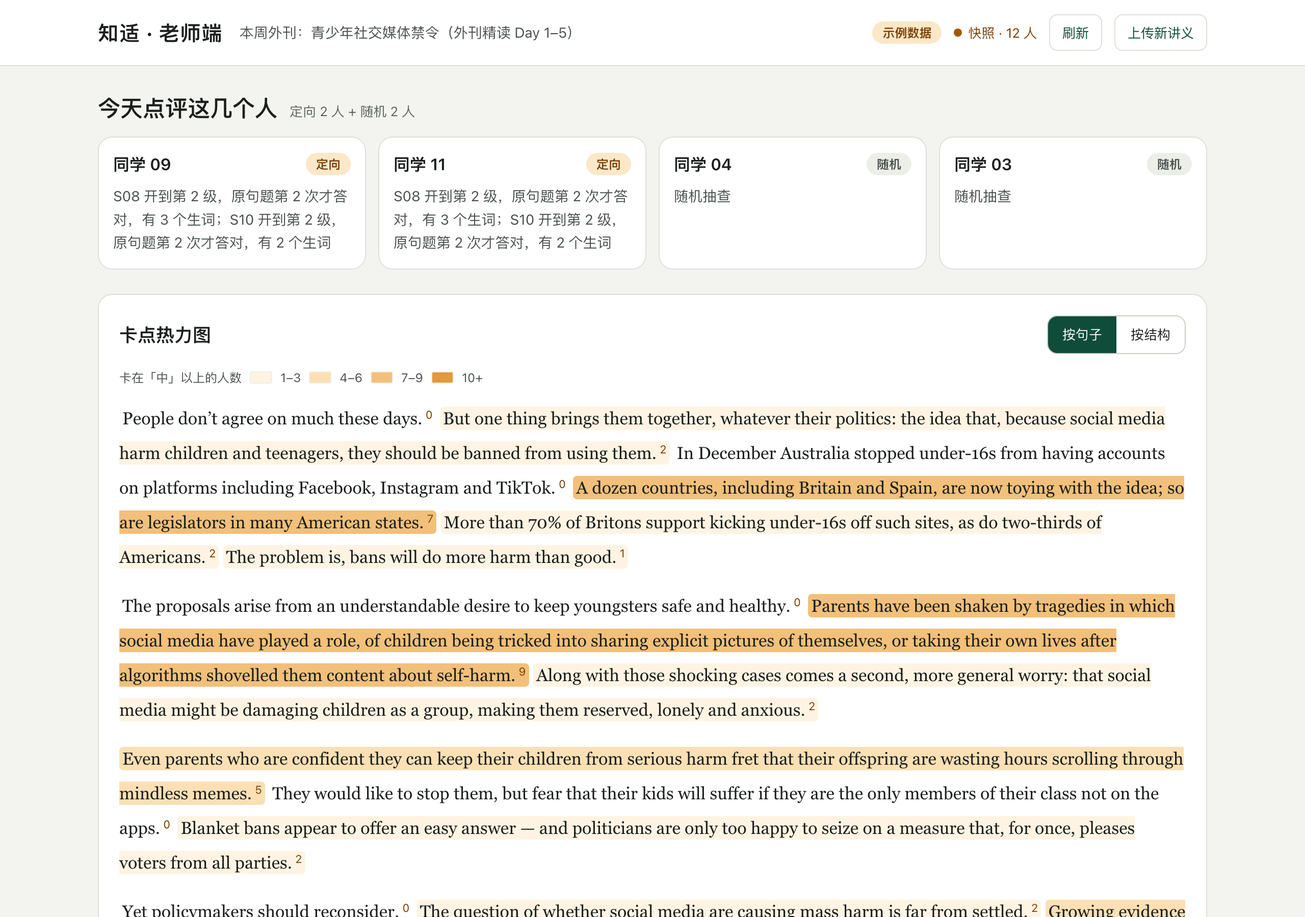
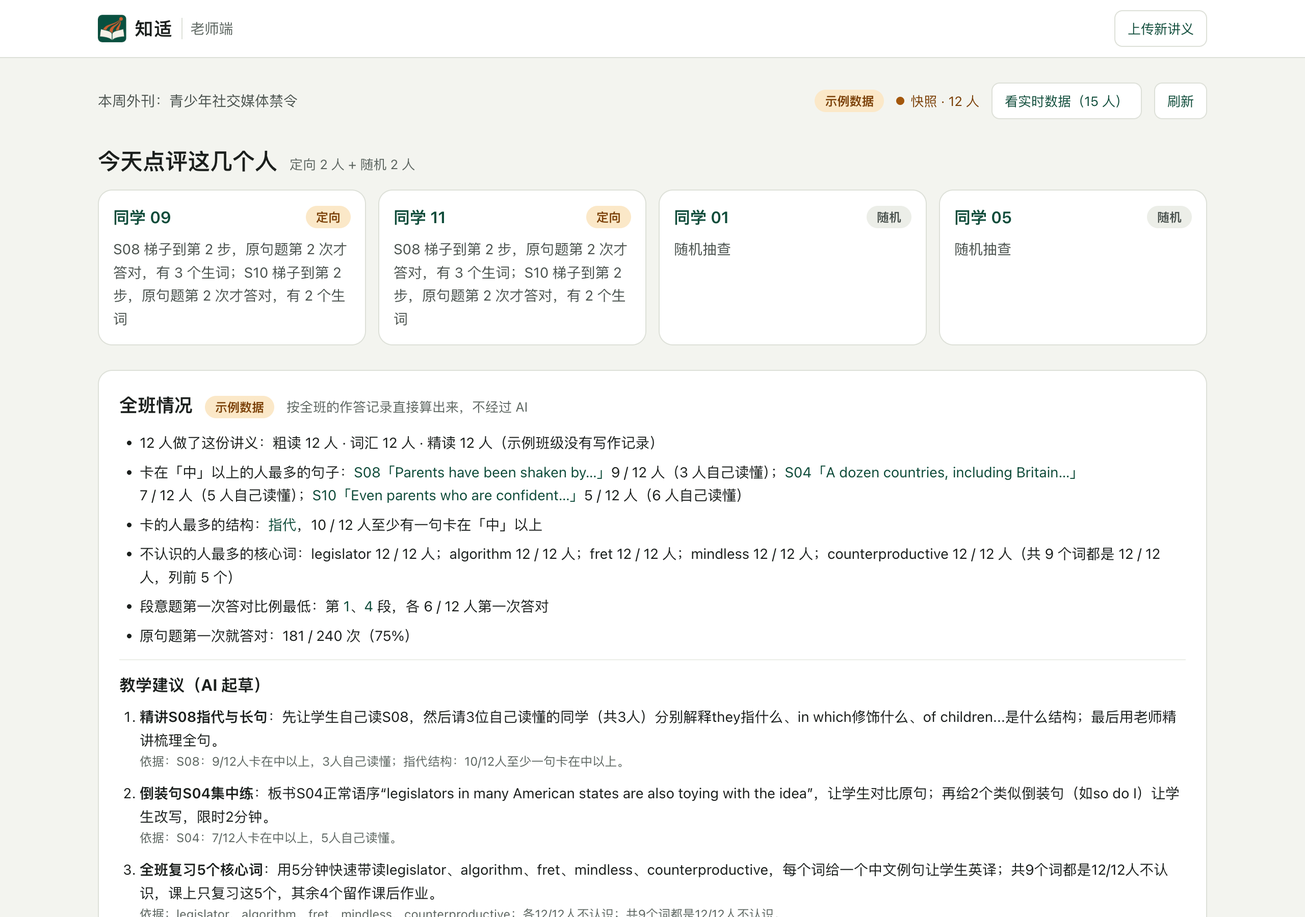
Teacher screens retaken on production (05 first screen, 05b class summary with real AI advice, 05c/05d heatmap by sentence/structure); PPT review corrected for the advice feature; Beijing times fixed in logs

diff --git a/MEMORY_LOG.md b/MEMORY_LOG.md
@@ -32,25 +32,32 @@
 
 ### 2026-10-03
 
+- **老师端截图 05 系列 + 「概念热区」结论（10:20，队长「重截」「改正吧」）**：
+  - 队友 PPT 里的「概念热区图」（主旨 / 词汇 / 推理 / 态度 × 5 列）产品里没有：题目没有题型字段，算不出推理、态度。队长问哪个更适合当创新点，结论是**卡点热力图**：热力图本身不新（讯飞、智学网的学情报告都按题型 / 知识点上色），新的是卡点来自读的过程中的直接证据（梯子步数、原句题第几次对、点的生词），标在老师自己那篇原文的第几句上，5 秒回流，同一口径接着驱动点评名单、教学建议的依据核对和「下一届的起点」。
+  - 线上重截（示例班级，点了一次「生成教学建议」，队长同意）：`05-老师端-示例班级.png`（第一屏）、`05b`（全班情况 + 5 条真实教学建议）、`05c`（热力图按句子）、`05d`（按结构：同位语从句 4 / 倒装 8 / 指代 10）。第二次截图时那条 POST 用第一次的结果在本地回放，没再请求线上。
+  - `docs/PPT修改意见.md` 更正：它写于教学建议上线前，「下一课建议也不是功能」只对一半；现在写明概念热区仍要拿掉，「下一课建议」换成「教学建议（AI 起草）」的真实输出。
+  - **时间标注更正**：这台 Mac 是美国太平洋时间（北京 = 本机 + 15 小时）。之前日志和文档里 10-03 的 17:25 / 17:50 / 18:05 / 18:30 其实是本机时间，已改成北京时间 08:25 / 08:50 / 09:05 / 09:30，「10-03 晚上」改成「上午」。
+  - 视频旁白队长要求改成男声；试了 13 个能用的男声，挑 4 个（温暖阿虎、刘飞、儒雅逸辰、阳光青年）做了对比试听，等队长选。
+
 - **测试方案改正 + 旁白试调（10:00）**：
   - **改正一个错误说法**：评委模式的作答**会**进展位老师端（`useStudent(h,'judge')` 不带预设，每次重置再答多一个 `judge-xxxxxx`），不进的只有「同学 A / B」两个预设画像。线上演示讲义已有 4 个评委会话（北京时间 10-02 22:37、23:26，10-03 07:21、08:15），展位前要认是不是自己人。`docs/测试方案.md` 按两位审查人的意见重写了「别污染数据」，改了 G7/G9/E6/G1 等预期，补了新用例和「只有人在真设备上能测的」R1–R15，开头放了 11 条必测。上传测试改用队员新写的文章（录视频的三篇线上已缓存）。
   - **截图**：01–03、04、08 在线上重截，03 改名 `03-词汇-先猜后看.jpg`。
   - **旁白有起伏**（队长嫌「一个语速语调说到底」）：实测 TokenDance 上的豆包 Seed-TTS 2.0 有效的控制是 `speech_rate`、`additions.context_texts`（语气指令，additions 必须是 JSON 字符串）、SSML `<speak>`+`<break>`（停顿精确到毫秒）、`loudness_rate`；`emotion` 参数没效果，`<prosody>`、`<cot>` 会被念出来。做法：每镜按整句拆段，每段单独定语速和语气，段间按秒插停顿。第 1 版试听（镜 2、5、8b、10）在 `~/Movies/知适演示视频/试听样本/`，等队长听后再整片重做。
 
-- **issues #24–#26 上线 + 视频重录（18:30，队长「部署吧，然后把那几镜重录一下」）**：前端 index-e2544b70.js（提交 50c3e70），线上核对和本地构建一字不差。文档同步交给一个 agent 改了 16 份（重点句、英文标题、入库报告白话），我补改了开发规格和设计规范里 10-02 就失效的「打卡句交初稿前只给第 1 步 / 锁图标」，测试方案换成新版本号并加了 G1b（#25）。演示视频在线上重录镜 4–6 和镜 9（镜 9 换新文章「Walking buses」，8.9 秒，旁白「9 秒」），两版成片画面都是「重点句」；旧的一批挪进 `~/Movies/知适演示视频/旧版（画面里还是『打卡句』）`。线上现在有三篇录视频用的已发布上传（Street trees、School gardens、Walking buses）。
+- **issues #24–#26 上线 + 视频重录（09:30，队长「部署吧，然后把那几镜重录一下」）**：前端 index-e2544b70.js（提交 50c3e70），线上核对和本地构建一字不差。文档同步交给一个 agent 改了 16 份（重点句、英文标题、入库报告白话），我补改了开发规格和设计规范里 10-02 就失效的「打卡句交初稿前只给第 1 步 / 锁图标」，测试方案换成新版本号并加了 G1b（#25）。演示视频在线上重录镜 4–6 和镜 9（镜 9 换新文章「Walking buses」，8.9 秒，旁白「9 秒」），两版成片画面都是「重点句」；旧的一批挪进 `~/Movies/知适演示视频/旧版（画面里还是『打卡句』）`。线上现在有三篇录视频用的已发布上传（Street trees、School gardens、Walking buses）。
 - **issues #24–#26（队长定 #24 #26 的做法）**：
   - **#24「打卡句应该存在吗」**：打卡句本身保留（老师讲义的句子翻译打卡；上传文章由程序挑最长的 3 句），它决定讲解不收起、老师端加倍计分。队长定：界面上统一改叫「重点句」（学生卡片、上传页统计和讲解编辑区、首页、上传报错），代码字段 `checkIn`、测试名、给模型的提示词不改。已录的演示视频和截图里还是「打卡句」。
   - **#25「修正和剔除明细是什么意思」**：入库报告改成写给老师的白话：摘要「程序逐条检查了 AI 写的内容：改好 N 处，去掉 M 处和原文对不上的（学生看不到去掉的内容，你不用处理）」，展开标题「看看改了什么、去掉了什么」，每条自带原因和处理结果，句子用「第 3 句『开头几个词…』」，不出现 S03 和校验器原话（`pipeline/article.ts` 的 `sentenceRef`、`plain`）。
   - **#26「AI 生成的标题是中文」**：队长定改成英文标题，像外刊标题，2–8 个词（提示词 title-v2）；校验：≤60 字符、2–10 个英文单词、不能有中文和双引号（撇号可以），不合格重写一次，再不行用原文第一句。真实调用 4 次都合格（如 Gardens Grow in Schoolyards）；本地上传实测起出 The Fridge Notebook Ritual。
 
-- **演示视频加镜 8b（18:05，队长要求，原 2:48 版保留）**：另导出一套 2:58 的（`~/Movies/知适演示视频/` 里文件名带「含镜8b」）。8b 是一页逐条出现的记录，跟着旁白出：粗读点了 38 个词 → 先猜后看 16 个猜错 12 个、11 个随后点了「认识」→ 20 道原句题 12 道第一次答错、10 道没开梯子换选项过去 → 只看对勾 20 道对了 18 道 →「知适只信直接证据」。数字导出前用 `GET /api/events` 从线上事件重算（stu-1c5a3j，10-02 13:23–13:38），全部对得上。旁白（豆包）用语音识别核对过，和原文一致。为了不超 3:00，镜 3 改 3 倍速（线上重录，角标「加速 ×3」），镜 9 去掉「预览学生端」。
+- **演示视频加镜 8b（09:05，队长要求，原 2:48 版保留）**：另导出一套 2:58 的（`~/Movies/知适演示视频/` 里文件名带「含镜8b」）。8b 是一页逐条出现的记录，跟着旁白出：粗读点了 38 个词 → 先猜后看 16 个猜错 12 个、11 个随后点了「认识」→ 20 道原句题 12 道第一次答错、10 道没开梯子换选项过去 → 只看对勾 20 道对了 18 道 →「知适只信直接证据」。数字导出前用 `GET /api/events` 从线上事件重算（stu-1c5a3j，10-02 13:23–13:38），全部对得上。旁白（豆包）用语音识别核对过，和原文一致。为了不超 3:00，镜 3 改 3 倍速（线上重录，角标「加速 ×3」），镜 9 去掉「预览学生端」。
 
-- **演示视频定版（17:50）**：
+- **演示视频定版（08:50）**：
   - **配音**：队长说可以用 TTS，问能不能用组委会 TokenDance 上的 TTS。试了豆包 Seed-TTS 2.0（`/gateway/ark/v3/tts/unidirectional`，`X-Api-Resource-Id: seed-tts-2.0`，音色 zh_female_vv_uranus_bigtts）和小米 MiMo-V2.5-TTS（`/v1/chat/completions` + `audio`），都能用。用 Qwen-Audio-3.0-ASR-Flash 把每段旁白转回文字逐字比对：MiMo 把 fret 读成类似 fill it、停顿不对，没用；豆包有两处连读吞字（「PDF 发」「pending 猜」），送去配音的文字加停顿重做，「只能写『如果』。知适做的」拆两段合成，中间停 0.68 秒。结尾卡和 AI_USAGE 写明「本视频旁白为 AI 语音合成」。
   - **画面**：发现之前的截屏流只有 720p（只设 Emulation 的 deviceScaleFactor，截屏流仍按 CSS 像素给帧），加 Chrome 启动参数 `--force-device-scale-factor` 后是真 1080p。队长提议改在线上录、顺带测试，镜 2–9 全部在线上重录，拦掉学习事件；镜 9 换新文章「School gardens」（`up-muro9v9eb73a`，10 秒）。录制中线上各流程都正常，写作检查的引用长度修复在线上生效。
   - 成片 2:48，在 `~/Movies/知适演示视频/`，旧版本挪进子文件夹，没删。
 
-- **演示视频镜 1 换成讲义 PDF 原页（17:25，队长给了 PDF）**：五天讲义 PDF 在 `docs/Day 1–5.pdf`。镜 1 用 pdftoppm 渲染 Day 2 第 8 页，pdftotext 取「如果」的位置套红框，先整页再放大；讲义说明挪到左上角，免得和字幕挤在一起。三个版本重新合成，已更新到 `~/Movies/知适演示视频/`。队长定：配音用合成语音或人工配都行。
+- **演示视频镜 1 换成讲义 PDF 原页（08:25，队长给了 PDF）**：五天讲义 PDF 在 `docs/Day 1–5.pdf`。镜 1 用 pdftoppm 渲染 Day 2 第 8 页，pdftotext 取「如果」的位置套红框，先整页再放大；讲义说明挪到左上角，免得和字幕挤在一起。三个版本重新合成，已更新到 `~/Movies/知适演示视频/`。队长定：配音用合成语音或人工配都行。
   - **PDF 不进仓库**：这是购买的讲义（卖家条款不得二次贩卖），仓库是公开的。`docs/Day *.pdf` 加进 .gitignore，`deploy/deploy.sh` 的 rsync 也排除它们（部署会同步整个目录到服务器）。
 
 - **部署、测试方案、演示视频初版（队长要求「评审完直接部署，然后给测试方案，能的话把视频录起来」）**：

diff --git a/docs/PPT修改意见.md b/docs/PPT修改意见.md
@@ -3,11 +3,12 @@
 > 对象：队友做的 13 页路演 PPT（16:9，10-02 晚上收到）。讲稿和时间分配以 [路演PPT大纲.md](路演PPT大纲.md) 为准。
 > 我看了每页的文字、演讲备注和嵌入的图片，产品说法逐条对照了代码和线上。**整页排版没看到**：本机没有能把 PPT 渲染成图片的工具，用 Keynote 导出也没成功。排版问题请导出一份 PDF 再核一次。
 > 规则和大纲一样：屏幕上的每个说法，都要能在产品里点到、在仓库里查到。评委上午会在展位上亲手用产品，手册第 465 行也要求「如实说明项目的既有基础、AI 使用情况与本次新增内容」。
+> **10-03 更正**：这份意见写于 10-02 19:39，比老师端「全班情况 + 教学建议（AI 起草）」（10-02 21:38 做好、22:28 上线）早。所以下面说「『下一课建议』也不是功能」只对了一半：**概念热区（主旨 / 词汇 / 推理 / 态度 × 5 列）产品里仍然没有，必须拿掉**；「下一课建议」现在有真实的对应功能，叫「教学建议（AI 起草）」，可以照实放，但要用真实输出，不能放编的内容（如「推理题集中失误」「先补因果关系，再做迁移题」，产品算不出推理、态度这类题型）。第 10 页、第四节、第六节已按此改过。老师端新截图见 `docs/assets/screens/` 的 05 系列（05、05b、05c、05d）。
 
 ## 一、结论（先看这一节）
 
 - **保留**：绿配橙的插画风格，和易拉宝一致；开头「把讲义里的『如果』，改成『你』」、结尾「Those days are no more」两句。第 3、4、5、8、13 页用的是我们的真实材料，思路也对。
-- **必须改**：第 6、7、9、10、11 页讲的是产品里没有的功能，比如分三个版本、点击回原文、概念热区、下一课建议。第 4、5 页也有过时或编出来的内容。评委在展位上一用产品就会对不上。
+- **必须改**：第 6、7、9、10、11 页讲的是产品里没有的功能，比如分三个版本、点击回原文、概念热区、编出来的「下一课建议」（产品里的真实功能叫「教学建议（AI 起草）」，见第 10 页）。第 4、5 页也有过时或编出来的内容。评委在展位上一用产品就会对不上。
 - **缺页**：现场演示页、「AI 使用与本次新增」页（手册要求）、谁来付钱和「为什么不直接问豆包」、真实的技术把关。
 - **页数**：13 页讲 5 分钟，平均每页约 23 秒，讲不完。按大纲压到 10 页，对应关系见第三节。
 
@@ -24,7 +25,7 @@
 | 7 | 「同一段外刊，三种不同的进入方式」：桥接版 / 标准版 / 挑战版，还画了一个「学生阅读器」 | 和我们的核心理念正好相反。产品没有分版本：全班题目一样，原文一字不改，按人变的是注释、梯子、老师讲解收起还是展开。自己画的界面也不能当产品展示 | 换成评委模式「你的这一份 vs 同学 B」的真机并排截图，标题改成「同一段原文，每个人的梯子不一样」。这就是大纲第 4 页（现场演示）的静态版，台上真机演示出问题时也能顶上 |
 | 8 | 核心闭环：1 → N → 1 | 思路对。「梯子开到第几级」要改 | 保留，「级」改成「步」。时间紧就并进第 5 页 |
 | 9 | 可追溯：原始资料 → 知识蒸馏 → 适配版本 → 回链（点击回到原文） | 「知识蒸馏」「分层重讲」「点击回到原文」产品都没有（易拉宝审稿时已经删过回链） | 改成大纲第 6 页「AI 只在老师那一侧起草，程序和人把关」：规则抽句子和核心词 → 大模型按段起草 → 程序校验（原句和讲义一字不差、AI 写的文字不出现语法术语、答案在选项里）→ 人工修订 231 条，每次入库自动套用，可以离线回放 → 学生侧的个性化全是规则，只有写作检查实时调用 AI。底部那三个问题（来自哪里？改变了什么？是否忠于目标？）可以留下，对应讲：每条内容都记了出处；原文不改，只加支架；必练词和重点句由程序检查，不会丢 |
-| 10 | 概念热区：主旨 / 词汇 / 推理 / 态度；下一课建议（情景数据） | 虽然标了「情景数据」，但这个视图产品里没有，「下一课建议」也不是功能 | 换成老师端真实截图：卡点热力图（按句子 / 按结构）、读懂轨迹、「下一届的起点」（建议名单和预览）。「个性化不是让每个学生各自学习，而是让老师看见更多学生」这句很好，保留 |
+| 10 | 概念热区：主旨 / 词汇 / 推理 / 态度；下一课建议（情景数据） | 虽然标了「情景数据」，但概念热区这个视图产品里没有：题目没有题型，算不出「推理」「态度」，5 列也对不上任何东西。「下一课建议」卡片里的话（推理题集中失误、先补因果关系再做迁移题）产品生成不出来。（10-03 更正：「下一课建议」本身现在有真实功能，叫「教学建议（AI 起草）」） | 左边换成卡点热力图真截图：按结构（`05d`，同位语从句 4 / 倒装 8 / 指代 10）或按句子（`05c`，原文每句按卡住的人数上色），标「示例数据」。右边深色卡改名「教学建议（AI 起草）」，放 2–3 条真实输出（`05b` 里的第 1、2、4 条最合适），卡底小字「AI 起草，供参考；依据里的数字由程序核对」。「FROM N TO 1」方向对，保留；「教学决策图」太抽象（见易拉宝修改意见），换成「全班卡在哪、下节课讲什么」这类具体说法。「个性化不是让每个学生各自学习，而是让老师看见更多学生」这句很好，保留 |
 | 11 | 四个指标：知识覆盖、来源可追溯、难度适配、学习变化 | 「三种版本」「点击回原文」「版本差异对应画像」都不存在；「前后测看学习变化」和我们的定调冲突：9 人小测看不出提升，路演不说「提高」 | 改成大纲第 7 页：一篇文章看不出效果，但看得见卡在哪。这一页的故事 10-03 讨论，先占位。「可信的教育产品，必须能被检查，不只是看起来聪明」这句可以留 |
 | 12 | 老师、学生、学校三方价值 | 「积累分层教学资产」「用熟悉的例子进入概念」不是产品功能；没说谁付钱 | 改成大纲第 8 页：为什么不直接问豆包（三家实测截图在 `docs/assets/ai-compare/`），谁来付钱（第一客户是学校英语组，按学生按年付费；99 元 / 生 / 年是假设，要照实说）。三方价值可以压成一行留着 |
 | 13 | 结尾、网址、二维码、仓库地址 | 网址写成了 zhishi.**jilling**.chat，多了一个 l。二维码我解码过，指向的网址是对的 | 改成 **zhishi.jiling.chat**，其他保留 |
@@ -52,7 +53,7 @@
 - 评委模式并排：你的这一份 vs 同学 B（手机和电脑各一张）
 - 新版梯子：在原句上批注，拆开每一块，最后给整句中文（另一个开发会话在改，定稿上线后截）
 - 词汇卡：词性、核心词、先猜一猜
-- 老师端：「刚刚」和「今天点评这几个人」；卡点热力图；读懂轨迹；「下一届的起点」
+- 老师端：「刚刚」和「今天点评这几个人」；「全班情况 + 教学建议（AI 起草）」；卡点热力图（按句子、按结构）；读懂轨迹；「下一届的起点」（10-03 已重截 05、05b、05c、05d，示例班级）
 - 上传页：生成报告和学生二维码
 - AI 对比截图：已经有了，在 `docs/assets/ai-compare/`
 
@@ -65,7 +66,7 @@
 ## 六、上台前自查清单
 
 - [ ] 每个功能说法都能在产品里点到。
-- [ ] 全文搜不到这些说法：三个版本、分层版本、桥接 / 标准 / 挑战、回链、点击回原文、知识蒸馏、概念热区、下一课建议、前后测提高、必练项永远不收起、不给整句中文、打卡初稿、打卡句（界面上 10-03 起叫「重点句」）。
+- [ ] 全文搜不到这些说法：三个版本、分层版本、桥接 / 标准 / 挑战、回链、点击回原文、知识蒸馏、概念热区、主旨 / 推理 / 态度这类题型分类、编出来的建议文字（教学建议只放真实输出，标题用「教学建议（AI 起草）」）、教学决策图、前后测提高、必练项永远不收起、不给整句中文、打卡初稿、打卡句（界面上 10-03 起叫「重点句」）。
 - [ ] 网址是 zhishi.jiling.chat。
 - [ ] 数字和 `docs/试用结果.md` 一致（问卷 n=9，后台有学习记录 4 人）。
 - [ ] 有「AI 使用与本次新增」页。

diff --git a/docs/assets/screens/README.md b/docs/assets/screens/README.md
@@ -4,17 +4,20 @@
 
 | 文件 | 画面 | 建议用在 |
 |---|---|---|
-| `01-粗读-通读全文点生词.jpg` | 粗读（10-03 晚上在线上重截，手机两倍图）：先通读全文，不认识的词点一下，第 1 段里点了 whatever、toying、legislators，顶上「已标记 3 个」；步骤条是「问卷 · 粗读 · 词汇 · 精读 · 写作 · 反馈」 | PPT「学生怎么用」 |
-| `02-粗读-提交后答错给提示.jpg` | 粗读答题（10-03 晚上在线上重截，手机两倍图）：英文段意题，第 2 段故意答错，选项标红，题目下面「再读一下这一段里高亮的那一句，作者的意思在这里」，给出这一段原文并高亮主题句 | PPT「卡住才给提示」 |
-| `03-词汇-先猜后看.jpg` | 词汇卡片（10-03 晚上在线上重截，手机两倍图；文件名原来是 03-学生词-先猜后看）：「核心词」toy with（phr.），例句里加粗，「先猜一猜」英文题干、中文选项，猜之前认识 / 不认识点不了 | PPT「学生怎么用」 |
-| `04-评委模式-你的这一份.png` | 评委模式（10-03 晚上在线上重截，1280×900 两倍图）：3 道快题第 1 题故意答错后，「评委的这一份」和「同学 B（长句难）的这一份」并排停在第 4 段。左边 S16「你第一次就读懂了这句，老师的讲解已收起」，S17 标着「重点句」、下面是「给你」便签（pending 猜错了，引的是老师讲义原话）；右边同学 B 的 S16 是「上次你自己读懂了类似的句子，这次先试一下」，答题前不显示老师的讲解 | **PPT 核心页**、提交平台首图 |
-| `05-老师端-示例班级.png` | 老师端：今天点评这几个人 + 卡点热力图（页面标着「示例数据」） | PPT「回响给老师」；有朋友真实数据后再换一张 |
+| `01-粗读-通读全文点生词.jpg` | 粗读（10-03 上午在线上重截，手机两倍图）：先通读全文，不认识的词点一下，第 1 段里点了 whatever、toying、legislators，顶上「已标记 3 个」；步骤条是「问卷 · 粗读 · 词汇 · 精读 · 写作 · 反馈」 | PPT「学生怎么用」 |
+| `02-粗读-提交后答错给提示.jpg` | 粗读答题（10-03 上午在线上重截，手机两倍图）：英文段意题，第 2 段故意答错，选项标红，题目下面「再读一下这一段里高亮的那一句，作者的意思在这里」，给出这一段原文并高亮主题句 | PPT「卡住才给提示」 |
+| `03-词汇-先猜后看.jpg` | 词汇卡片（10-03 上午在线上重截，手机两倍图；文件名原来是 03-学生词-先猜后看）：「核心词」toy with（phr.），例句里加粗，「先猜一猜」英文题干、中文选项，猜之前认识 / 不认识点不了 | PPT「学生怎么用」 |
+| `04-评委模式-你的这一份.png` | 评委模式（10-03 上午在线上重截，1280×900 两倍图）：3 道快题第 1 题故意答错后，「评委的这一份」和「同学 B（长句难）的这一份」并排停在第 4 段。左边 S16「你第一次就读懂了这句，老师的讲解已收起」，S17 标着「重点句」、下面是「给你」便签（pending 猜错了，引的是老师讲义原话）；右边同学 B 的 S16 是「上次你自己读懂了类似的句子，这次先试一下」，答题前不显示老师的讲解 | **PPT 核心页**、提交平台首图 |
+| `05-老师端-示例班级.png` | 老师端第一屏（10-03 上午在线上重截，1280×900 两倍图，点了「看示例班级」）：顶上「示例数据 · 快照 12 人」，「今天点评这几个人」定向 2 人 + 随机 2 人，下面「全班情况」和「教学建议（AI 起草）」的开头 | PPT「回响给老师」 |
+| `05b-老师端-全班情况和教学建议.png` | 「全班情况」整张卡片（示例数据）：卡得最多的句子、结构、核心词、段意题；下面是线上真实生成的「教学建议（AI 起草）」5 条，每条带「依据」，末尾「AI 起草…供参考」 | PPT「下节课讲什么」：替换编出来的「下一课建议」 |
+| `05c-老师端-卡点热力图-按句子.png` | 卡点热力图「按句子」（示例数据）：整篇原文，每句按卡在「中」以上的人数上色、句尾标人数，S08 是 9、S04 是 7 | PPT「全班卡在哪」主图 |
+| `05d-老师端-卡点热力图-按结构.png` | 卡点热力图「按结构」（示例数据）：同位语从句 4、倒装 8、指代 10，每行后面是句子编号 | PPT：替换「概念热区」那张格子图 |
 | `06-首页-电脑.png` | 首页（10-03 凌晨重截，1440×900 两倍图）：「把讲义里的『如果』，改成『你』」，下面一句大白话说清知适是什么、一行浅色原标语，再下面「我是学生」「我是老师」两张大卡片、「上传一篇文章 →」和「演示模式」开关（开着），右边是「如果 → 给你」对比卡 | 提交平台封面备选 |
 | `07-上传页.png` | 老师上传任意英文文章的表单（1280×900 两倍图）：标题可不填，不填由 AI 起一个 | PPT「老师怎么用」 |
-| `08-精读-读懂梯子.jpg` | 精读（10-03 晚上在线上重截，手机 390×844 两倍图，同学 B 演示画像）：重点句 S17 开到梯子第 2 步「拆开」：整句原句分成几块，每块上面是大白话标签（补充说明、什么时候·在哪里、谁、做了什么），下面一行提示；梯子进度「谁 → 做了什么 · 拆开 · 译文」，下面是表达和老师的讲解 | PPT「读懂梯子」 |
+| `08-精读-读懂梯子.jpg` | 精读（10-03 上午在线上重截，手机 390×844 两倍图，同学 B 演示画像）：重点句 S17 开到梯子第 2 步「拆开」：整句原句分成几块，每块上面是大白话标签（补充说明、什么时候·在哪里、谁、做了什么），下面一行提示；梯子进度「谁 → 做了什么 · 拆开 · 译文」，下面是表达和老师的讲解 | PPT「读懂梯子」 |
 | `09-写作-表达检查.jpg` | 写作（10-03 凌晨重截，手机图）：用上本周表达，AI 判断用得对不对；下面「可能写错的地方」只引学生写的几个词、标出类型、提示该检查什么，不改写 | PPT「表达链」 |
 | `10-粗读-文章是怎么写的.jpg` | 粗读（手机图）：段意题全答对后出现「这篇文章是怎么写的」：骨架「提出观点 → 让步 → 反驳 → 给理由」，每段的作用和一句概括（AI 起草，供参考） | PPT「学生怎么用」或答辩时讲文章结构 |
 
-注意：01–03 已在 10-03 晚上按新界面重截（步骤条是「词汇」）。老师端那张是示例数据，PPT 上要写明「示例」，或者等朋友试用满 5 人后换成真实数据截图。
+注意：01–03 已在 10-03 上午按新界面重截（步骤条是「词汇」）。老师端 05 系列都是示例数据（12 个按规则生成的演示同学），PPT 上要写明「示例」。线上实时数据里混有队员测试的评委会话，暂时不截。
 
-01–04、08 已在 10-03 晚上按新界面重截（步骤条「词汇」、标签「重点句」）。
+01–05、08 已在 10-03 上午按新界面重截（步骤条「词汇」、标签「重点句」、老师端有「全班情况 / 教学建议」）。

diff --git a/docs/演示视频脚本.md b/docs/演示视频脚本.md
@@ -103,11 +103,11 @@
 
 - **10-03 凌晨，Claude 录了一版**（队长要求）：照上面的分镜逐镜录屏，2:58，1080p，带字幕；旁白是 macOS「婷婷」语音合成的。成片、无旁白版（给队友 1 配真人旁白）、无字幕版、字幕文件和录制脚本在队长电脑的 `~/Movies/知适演示视频/`，里面的 `说明.md` 写了每一镜的时间和画面。
 - **镜 1 已换成 PDF 原页（10-03 下午）**：队长把五天讲义 PDF 放进了 `docs/`（只在本地，已加进 .gitignore，部署也排除），镜 1 用 Day 2 第 8 页原页渲染，先看整页再放大，红框圈出「如果」。
-- **全部改在线上录（10-03 17:50，队长提议，顺带当线上冒烟测试）**：镜 2–9 都在 https://zhishi.jiling.chat 上录，真正的 1920×1080（之前的版本截屏流其实只有 720p，放大到 1080p 偏糊）。录制时拦掉学习事件，不写进老师端真实数据。镜 9 换成新写的团队原创短文「School gardens」（线上生成 10 秒），因为同一篇再上传会命中服务器缓存、读不出真实生成时间；线上现在有「Street trees」「School gardens」两篇已发布的上传。成片 2:48。
-- **含镜 8b 的版本（10-03 18:05，队长要求，原 2:48 版保留）**：另导出一套 2:58 的，文件名带「含镜8b」。8b 做成一页逐条出现的记录（数字导出前从线上学习事件重算过，左上角注明来源），旁白照原文；为了不超 3:00，照上面的办法把镜 3 改成 3 倍速（重录）、镜 9 去掉「预览学生端」。
+- **全部改在线上录（10-03 08:50，队长提议，顺带当线上冒烟测试）**：镜 2–9 都在 https://zhishi.jiling.chat 上录，真正的 1920×1080（之前的版本截屏流其实只有 720p，放大到 1080p 偏糊）。录制时拦掉学习事件，不写进老师端真实数据。镜 9 换成新写的团队原创短文「School gardens」（线上生成 10 秒），因为同一篇再上传会命中服务器缓存、读不出真实生成时间；线上现在有「Street trees」「School gardens」两篇已发布的上传。成片 2:48。
+- **含镜 8b 的版本（10-03 09:05，队长要求，原 2:48 版保留）**：另导出一套 2:58 的，文件名带「含镜8b」。8b 做成一页逐条出现的记录（数字导出前从线上学习事件重算过，左上角注明来源），旁白照原文；为了不超 3:00，照上面的办法把镜 3 改成 3 倍速（重录）、镜 9 去掉「预览学生端」。
 - **和分镜不一样的地方**：镜 3 是电脑模拟手机，没有扫码。
 - **配音（10-03 下午改）**：旁白换成组委会 TokenDance 上的豆包 Seed-TTS 2.0 合成，总长 2:51；每镜旁白用 Qwen-Audio ASR 转回文字和原文比对过（连读吞字的两处加停顿重做）。也试了小米 MiMo-V2.5-TTS，fret 读不准，没用。结尾卡的 AI 声明加了「本视频旁白为 AI 语音合成」。要人工配音就用「无旁白-字幕」版照字幕念。
-- **界面改名（10-03 晚上，issue #24、#25）**：「打卡句」改叫「重点句」，入库报告改成给老师看的白话。10-03 18:30 部署后重录了镜 4–6 和镜 9（线上录，镜 9 换成新的团队原创短文「Walking buses」，生成 8.9 秒，旁白改成「9 秒」），两版成片（2:48、含镜 8b 的 2:58）画面上都是「重点句」和新的入库报告；之前那批挪进了 `~/Movies/知适演示视频/` 的「旧版（画面里还是『打卡句』）」。
+- **界面改名（10-03 上午，issue #24、#25）**：「打卡句」改叫「重点句」，入库报告改成给老师看的白话。10-03 09:30 部署后重录了镜 4–6 和镜 9（线上录，镜 9 换成新的团队原创短文「Walking buses」，生成 8.9 秒，旁白改成「9 秒」），两版成片（2:48、含镜 8b 的 2:58）画面上都是「重点句」和新的入库报告；之前那批挪进了 `~/Movies/知适演示视频/` 的「旧版（画面里还是『打卡句』）」。
 - **之后要重录的情况**：14:00 冻结前界面又改了，可以只重做相应的镜头。
 
 ---

diff --git a/docs/测试方案.md b/docs/测试方案.md
@@ -1,4 +1,4 @@
-# 测试方案（10-03 晚上上线版）
+# 测试方案（10-03 上午上线版）
 
 > 线上版本：前端 `index-e2544b70.js`，提交 `50c3e70`（含老师讲解 + AI 起草、issues #24–#26）。网址 https://zhishi.jiling.chat
 > 范围：issues #10–#26 的修复，加上 10-03 新加的几件事：上传的文章不放假词、写作页「可能写错的地方」、#20 文章结构、上传文章的老师讲解（含 AI 起草）、「打卡句」改叫「重点句」、入库报告的白话说明、AI 起英文标题。
